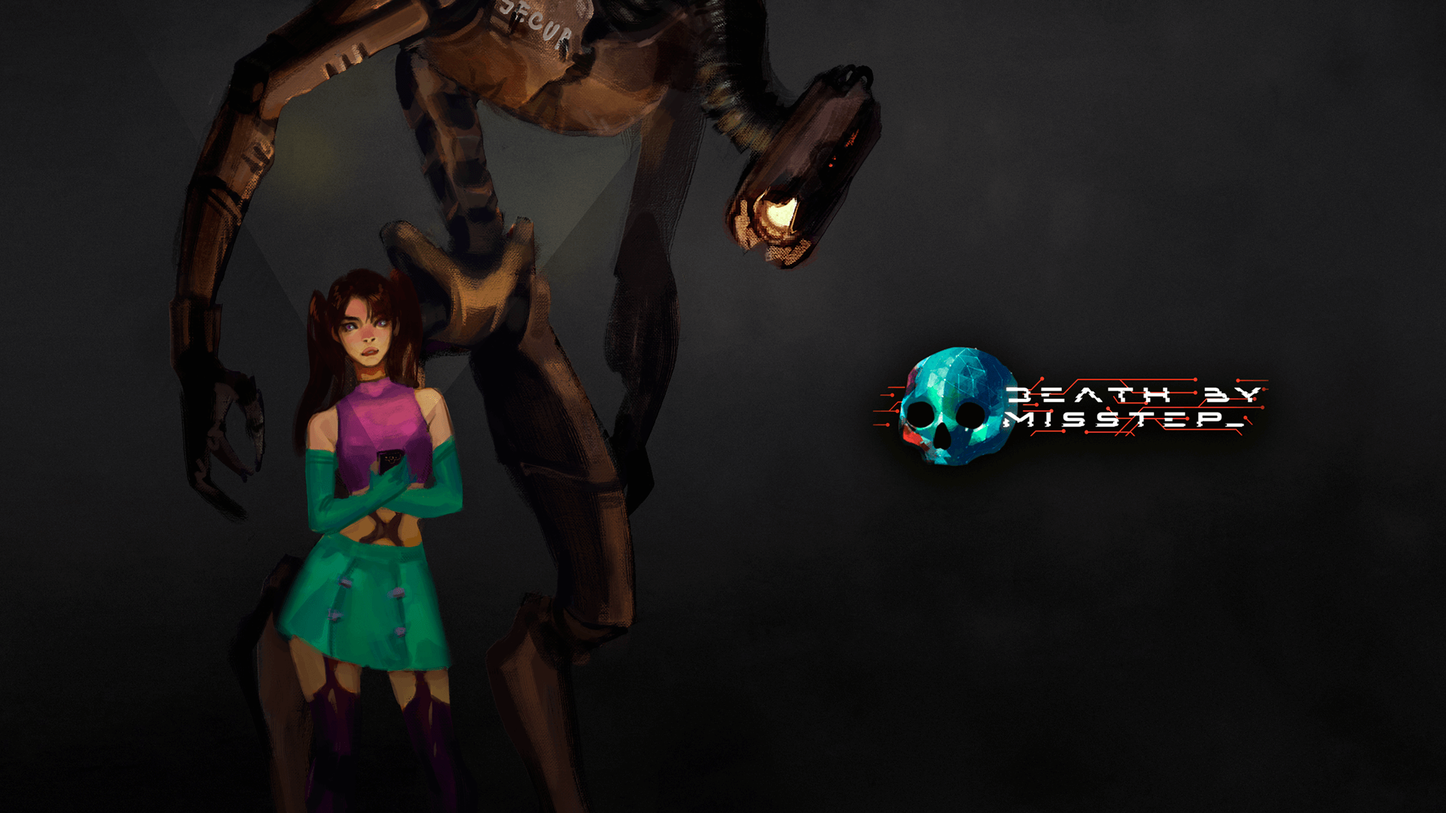
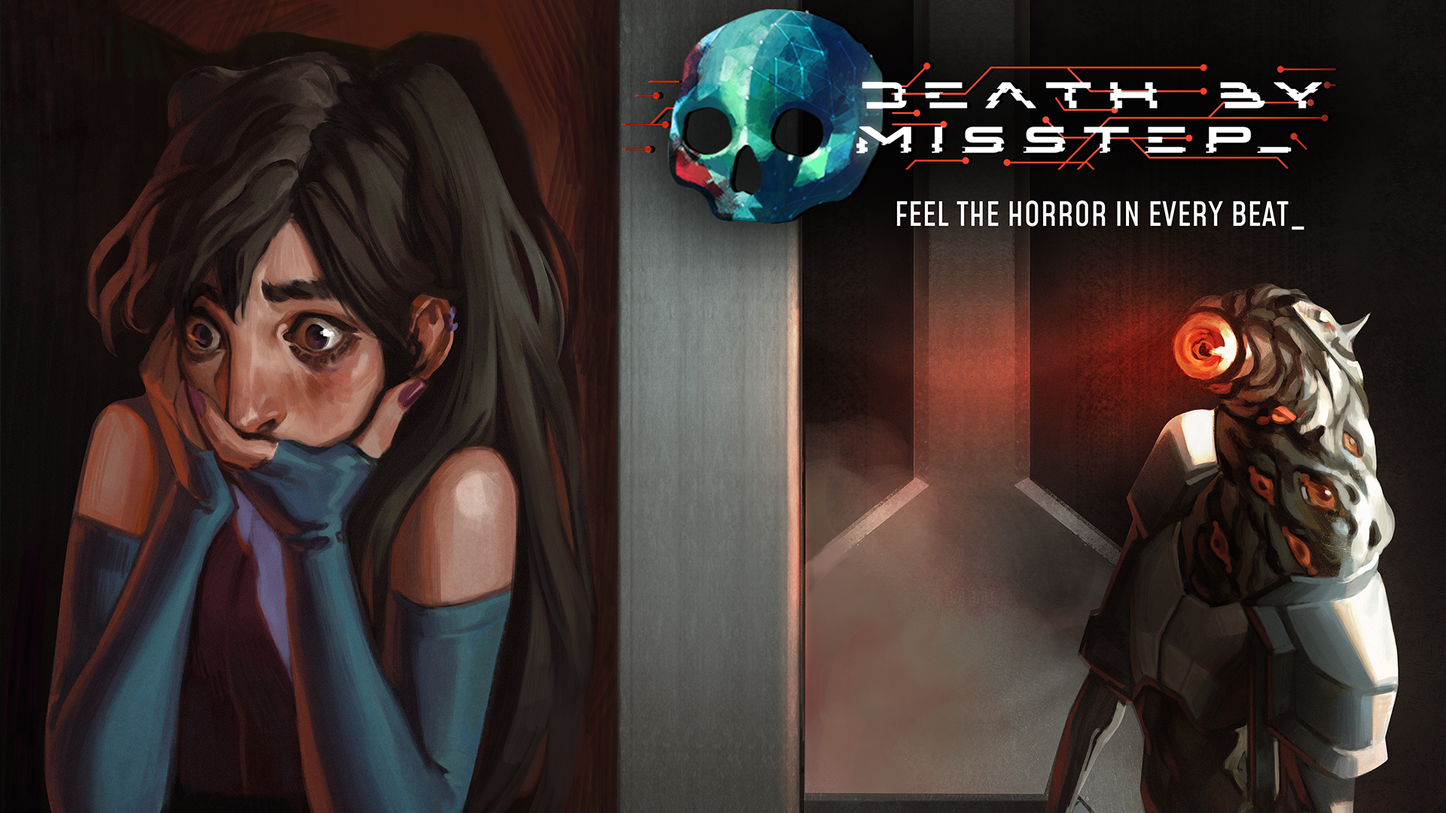
Update main page and presskit
- Main page: Steam button improved and the header image changed.
- Presskit: The header image for the product changed.

diff --git a/css/styles.css b/css/styles.css
@@ -103,23 +103,27 @@ a:hover {
   background-image: url("../images/title-banner.png");
   background-position: center;
   background-size: cover;
-  min-height: 46em;
+  min-height: 66em;
 }
 
 .wishlist-steam-container {
-  margin-top: 200px;
+  margin-top: 400px;
 }
 
 .btn-wishlist-steam {
-  padding: 15px 50px;
+  padding: 20px 100px;
   text-transform: uppercase;
   margin: 100px;
 }
 
-.btn-wishlist-steam,
-.btn-wishlist-steam:hover {
+.btn-wishlist-steam {
   background-color: #0c1d29;
   border-color: #0c1d29;
+}
+
+.btn-wishlist-steam:hover {
+  background-color: #105082;
+  border-color: #105082;
 }
 
 .btn-text {
